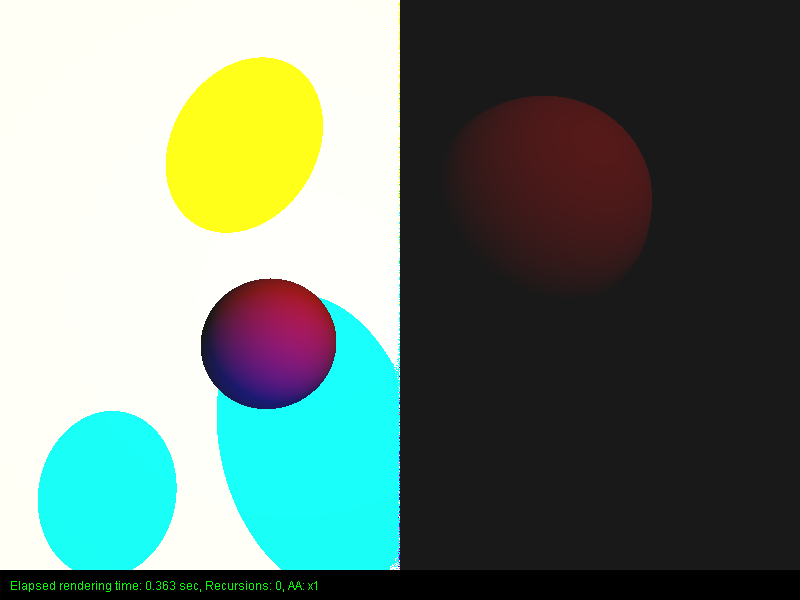
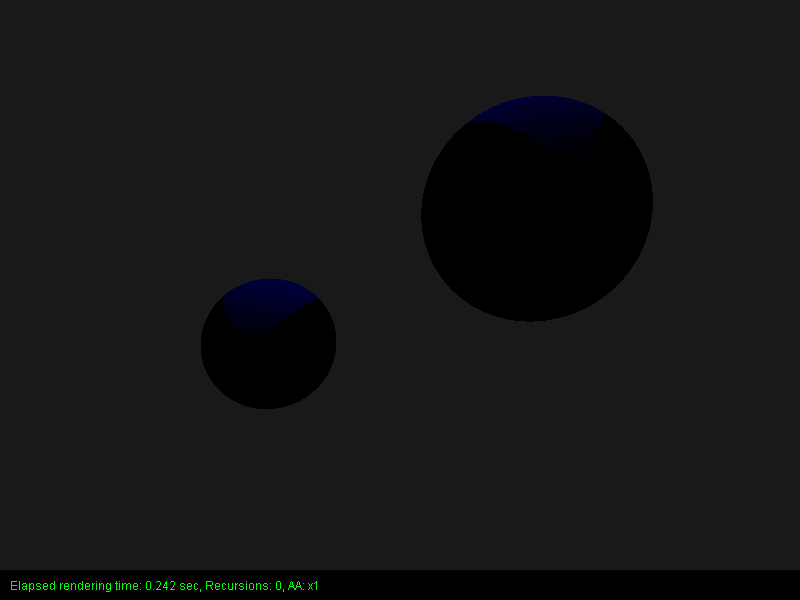
:(

diff --git a/VCG_Raytracer/src/scene/material/Material.java b/VCG_Raytracer/src/scene/material/Material.java
@@ -14,6 +14,15 @@ import utils.algebra.Vec3;
 public abstract class Material {
 
     private static RgbColor ambientK = new RgbColor(0.1f,0.1f,0.1f);
+    protected Shape myShape;
+
+    public Shape getMyShape() {
+        return myShape;
+    }
+
+    public void setMyShape(Shape myShape) {
+        this.myShape = myShape;
+    }
 
     protected Material (RgbColor _ambientK) {
         Material.ambientK = _ambientK;
@@ -31,19 +40,17 @@ public abstract class Material {
         Material.ambientK = ambientK;
     }
 
-    public abstract RgbColor getColor(Vec3 _camPos, Vec3 _position, Vec3 _normal, ArrayList<PointLight> _list_lights);
+    public abstract RgbColor getColor(Vec3 _camPos, Vec3 _position, Vec3 _normal, ArrayList<PointLight> _list_lights, ArrayList<Shape> _list_shapes);
 
     //farbe trennen von dem einen licht
-    public RgbColor shade (Intersection _intersection, PointLight _current_light, RgbColor _input, ArrayList<Shape> _list_shapes) {
-
-        RgbColor current = _input;
-        Material material = _intersection.getShape().getMaterial();
+    public Float shade (Vec3 _intersection_pos, Light _current_light, ArrayList<Shape> _list_shapes) {
 
         //we prob need to grab the light position and compare to our intersection point
         float distance = _current_light.getPosition()
-                        .sub(_intersection.getIntersectionPoint())
+                        .sub(_intersection_pos)
                         .length();
-        current = current.multScalar(distance * distance); // *0.25 due to else impact either too big or too smol 
+        //current = current.multScalar(distance * distance); // dist * dist recommended by marcel
+        // *0.25 due to else impact either too big or too smol 
         //value just depends on light distance which makes sense as you want further lights to have less impact....
         //but for this surely there has to be a better way to make it seem balanced no?
         //honestly no clue if theres a better way atleast couldnt find any specific way for this in folien but not having it in feels troll cuz it just makes sense for distance to play a role logically
@@ -61,8 +68,8 @@ public abstract class Material {
             //berechne lokales beleuchtungsmodell 
 
         //sekundärstrahlen attempt- nvm not attempt.... SUCCESS
-        Ray secondaryRay = new Ray(_intersection.getIntersectionPoint(), _current_light.getPosition().sub(_intersection.getIntersectionPoint()));
-        Shape hitObjectShape = _intersection.getShape();
+        Ray secondaryRay = new Ray(_intersection_pos, _current_light.getPosition().sub(_intersection_pos));
+        Shape hitObjectShape = this.getMyShape();
         boolean objectInTheWay = false; //boolean to keep track of if any object is blocking direct LOS from impact to light
 
         for (Shape currentShape : _list_shapes) { //go through all shapes
@@ -73,14 +80,16 @@ public abstract class Material {
             }
         }
 
-        if(!objectInTheWay)
-            pointColor.add(diffuse.red(), diffuse.green(), diffuse.blue());
+
+
+        if(objectInTheWay)
+            return 0f;
     
 
         //pretty sure this aint wanted since it just makes it a lot darker -> yea this just makes it very dark so dont do this
         //pointColor = new RgbColor(pointColor.red()/getLights().size(), pointColor.green()/getLights().size(), pointColor.blue()/getLights().size());
 
-        return pointColor;
+        return distance * distance;
     }
 
 }

diff --git a/VCG_Raytracer/src/scene/material/Phong.java b/VCG_Raytracer/src/scene/material/Phong.java
@@ -4,6 +4,7 @@ import java.util.ArrayList;
 
 import scene.light.Light;
 import scene.light.PointLight;
+import scene.shape.Shape;
 import utils.RgbColor;
 import utils.algebra.Vec3;
 
@@ -24,7 +25,7 @@ public class Phong extends Material {
     //honestly think we may need another input var for the cam position
     //man könnte light als param raus nehmen und hier drinnen ne for each schleife der lichter haben
     //but we'd need access to the lightlist for that
-    public RgbColor getColor(Vec3 _camPos, Vec3 _position, Vec3 _normal, ArrayList<PointLight> _list_lights){
+    public RgbColor getColor(Vec3 _camPos, Vec3 _position, Vec3 _normal, ArrayList<PointLight> _list_lights, ArrayList<Shape> _list_shapes){
 
         Float r,g,b;
 
@@ -66,9 +67,12 @@ public class Phong extends Material {
 
                 System.out.println(scalar_view_reflection);
 
-                r += (float) (lightColor.red() * (specularK.red() * Math.pow(Math.max(0, scalar_view_reflection), specularExponent)));
-                g += (float) (lightColor.green() * (specularK.green() * Math.pow(Math.max(0, scalar_view_reflection), specularExponent)));
-                b += (float) (lightColor.blue() * (specularK.blue() * Math.pow(Math.max(0, scalar_view_reflection), specularExponent)));
+                Float shadeResult = this.shade(_position, light, _list_shapes);
+                if(shadeResult != 0){
+                  r += (float) (lightColor.red() * (specularK.red() * Math.pow(Math.max(0, scalar_view_reflection), specularExponent)));// * shadeResult;
+                  g += (float) (lightColor.green() * (specularK.green() * Math.pow(Math.max(0, scalar_view_reflection), specularExponent)));// * shadeResult;
+                  b += (float) (lightColor.blue() * (specularK.blue() * Math.pow(Math.max(0, scalar_view_reflection), specularExponent)));// * shadeResult;
+                }
 
 
             }

diff --git a/VCG_Raytracer/src/raytracer/Raytracer.java b/VCG_Raytracer/src/raytracer/Raytracer.java
@@ -179,7 +179,11 @@ public class Raytracer {
                 RgbColor outputColor;
                 if (clostest_intersection.isHit()) {
                     //System.out.println("SHAPE HIT");
-                    outputColor = mScene.shade(clostest_intersection);
+                    outputColor = clostest_intersection.getShape().getMaterial().getColor(camera.getOrigin(), 
+                                                                                        clostest_intersection.getIntersectionPoint(), 
+                                                                                        clostest_intersection.getNormal(), 
+                                                                                        mScene.getLights(), 
+                                                                                        mScene.getShapes());
                 } else {
                     outputColor = mScene.getAmbientFactor();
                 }
@@ -190,7 +194,7 @@ public class Raytracer {
         }
 
     }
-
+/* 
     private void a3_Beleuchtung(){
         Vec2 windowSize = new Vec2 (mBufferedImage.getWidth(), mBufferedImage.getHeight());
         Vec2 currentPixel;
@@ -222,7 +226,7 @@ public class Raytracer {
                 mRenderWindow.setPixel(mBufferedImage, outputColor, currentPixel);
             }
         }
-    }
+    }*/
     
     /* auskommentiert to avoid errors from changed code in inner workings 
     private void circle_radius1 () {

diff --git a/VCG_Raytracer/src/scene/material/Lambert.java b/VCG_Raytracer/src/scene/material/Lambert.java
@@ -18,7 +18,7 @@ public class Lambert extends Material {
         this.diffuseK = _diffuse_k;
     }
     
-    public RgbColor getColor(Vec3 _camPos, Vec3 _position, Vec3 _normal, ArrayList<PointLight> _list_lights){
+    public RgbColor getColor(Vec3 _camPos, Vec3 _position, Vec3 _normal, ArrayList<PointLight> _list_lights, ArrayList<Shape> _list_shapes){
 
         // Variables later on inserted into our RgbColor output
         // Better for calculating the indiviual light components

diff --git a/VCG_Raytracer/src/scene/shape/Shape.java b/VCG_Raytracer/src/scene/shape/Shape.java
@@ -15,6 +15,7 @@ public abstract class Shape extends SceneObject {
     public Shape (Vec3 _position, Material _material) {
         this.position = _position;
         this.material = _material;
+        this.material.setMyShape(this);
         this.intersectionData = new Intersection();
     }
 
